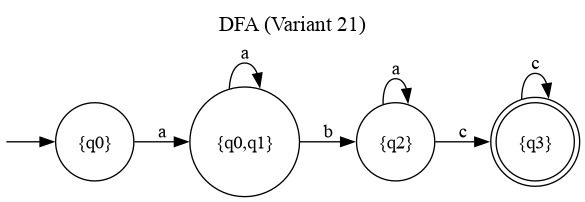
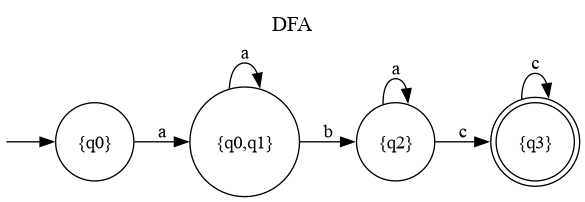
Create lab2.md

Changed region(s): [[0.3692, 0.0594, 0.6462, 0.1782]]

diff --git a/main.py b/main.py
@@ -128,9 +128,9 @@ def main():
 
     # 2d. Visualize the finite automaton graphically
     print(f"\n2d. Graphical representation:")
-    draw_automaton(fa, "NFA (Variant 21)", "nfa_graph")
+    draw_automaton(fa, "NFA", "nfa_graph")
     if not det:
-        draw_automaton(dfa, "DFA (Variant 21)", "dfa_graph")
+        draw_automaton(dfa, "DFA", "dfa_graph")
 
 
 if __name__ == "__main__":

diff --git a/lab2.md b/lab2.md
@@ -1,0 +1,296 @@
+# Determinism in Finite Automata. Conversion from NDFA to DFA. Chomsky Hierarchy.
+
+### Course: Formal Languages & Finite Automata
+### Author: Poiata Calin
+
+----
+
+## Theory
+
+A **finite automaton** (FA) is a mechanism used to represent processes of different kinds, comparable to a state machine. The word *finite* signifies that the automaton has a starting state and a set of final (accept) states — every modeled process has a beginning and an ending. An FA is formally defined by five components: a set of states (Q), an input alphabet (Σ), a transition function (δ), a start state (q₀), and a set of accept states (F).
+
+Based on the structure of the transition function, an automaton can be **deterministic** (DFA) or **non-deterministic** (NFA). In a DFA, each (state, symbol) pair maps to exactly one next state, making the system fully predictable. In an NFA, a single (state, symbol) pair can lead to multiple next states, introducing non-determinism. Despite this difference, DFAs and NFAs are equivalent in expressive power — every NFA can be converted into a DFA that recognizes the same language, using the **subset construction** algorithm.
+
+The **Chomsky hierarchy** classifies formal grammars into four types based on the form of their production rules: Type 0 (unrestricted), Type 1 (context-sensitive), Type 2 (context-free), and Type 3 (regular). Regular grammars (Type 3) are the most restrictive and correspond directly to finite automata.
+
+
+## Objectives:
+
+* Provide a function in the grammar class that classifies the grammar based on the Chomsky hierarchy.
+* Implement conversion of a finite automaton to a regular grammar.
+* Determine whether the FA is deterministic or non-deterministic.
+* Implement functionality to convert an NFA to a DFA.
+* Represent the finite automaton graphically using Graphviz.
+
+
+## Implementation description
+
+### Chomsky Hierarchy Classification
+
+The `classify_chomsky()` method in the `Grammar` class examines every production rule and checks three boolean flags — `is_regular`, `is_context_free`, and `is_context_sensitive` — to determine the grammar type. For Type 3 (regular), every left-hand side must be a single non-terminal, and every right-hand side must be either a single terminal or a terminal followed by a non-terminal (right-linear form). For Type 2 (context-free), only the single non-terminal LHS constraint is required. For Type 1 (context-sensitive), the RHS must be at least as long as the LHS. If none of these hold, it falls back to Type 0 (unrestricted).
+
+```python
+def classify_chomsky(self):
+    is_regular = True
+    is_context_free = True
+    is_context_sensitive = True
+
+    for lhs, rhs_list in self.productions.items():
+        if len(lhs) != 1 or lhs not in self.vn:
+            is_context_free = False
+            is_regular = False
+
+        for rhs in rhs_list:
+            if len(rhs) < len(lhs):
+                is_context_sensitive = False
+
+            if is_regular:
+                if len(rhs) == 1:
+                    if rhs not in self.vt:
+                        is_regular = False
+                elif len(rhs) == 2:
+                    if rhs[0] not in self.vt or rhs[1] not in self.vn:
+                        is_regular = False
+                else:
+                    is_regular = False
+
+    if is_regular:
+        return "Type 3 (Regular)"
+    elif is_context_free:
+        return "Type 2 (Context-Free)"
+    elif is_context_sensitive:
+        return "Type 1 (Context-Sensitive)"
+    else:
+        return "Type 0 (Unrestricted)"
+```
+
+When run on the Variant 21 grammar from Lab 1, it correctly identifies it as **Type 3 (Regular)**, since all productions are of the form `A → a` or `A → aB`.
+
+### FA to Regular Grammar Conversion
+
+The `to_regular_grammar()` method converts a finite automaton back into a regular grammar. Every state becomes a non-terminal. For each transition δ(A, a) = B, a production `A → aB` is created. Additionally, if B is an accept state, a production `A → a` is also added to allow the derivation to terminate. This dual handling is needed because an accept state may still have outgoing transitions (e.g., q3 with a self-loop on `c`), so both `A → aB` and `A → a` must be present to preserve the full language.
+
+```python
+def to_regular_grammar(self):
+    from grammar import Grammar
+
+    vn = set(self.states)
+    vt = set(self.alphabet)
+    productions = {}
+
+    for (state, symbol), targets in self.transitions.items():
+        for target in targets:
+            productions.setdefault(state, []).append(symbol + target)
+            if target in self.accept_states:
+                productions.setdefault(state, []).append(symbol)
+
+    return Grammar(vn, vt, productions, self.start_state)
+```
+
+### Determinism Check
+
+The `is_deterministic()` method iterates over all transition entries and checks whether any (state, symbol) pair maps to more than one target state. If so, the automaton is non-deterministic.
+
+```python
+def is_deterministic(self):
+    for (state, symbol), targets in self.transitions.items():
+        if len(targets) > 1:
+            return False
+    return True
+```
+
+For the Variant 21 FA, `δ(q0, a) = {q0, q1}` maps to two states, so the method correctly returns `False` — the automaton is an NFA.
+
+### NFA to DFA Conversion (Subset Construction)
+
+The `to_dfa()` method implements the subset construction algorithm. Each DFA state is a frozenset of NFA states. Starting from `{q0}`, the algorithm processes each symbol by collecting all NFA states reachable from the current set and creating a new DFA state for each unique combination. A DFA state is accepting if it contains any NFA accept state. Finally, states are renamed from frozenset representations to readable strings like `{q0,q1}`.
+
+```python
+def to_dfa(self):
+    dfa_start = frozenset({self.start_state})
+    dfa_states = set()
+    dfa_transitions = {}
+    queue = [dfa_start]
+    dfa_states.add(dfa_start)
+
+    while queue:
+        current = queue.pop(0)
+
+        for symbol in self.alphabet:
+            next_state = set()
+            for nfa_state in current:
+                key = (nfa_state, symbol)
+                if key in self.transitions:
+                    next_state |= self.transitions[key]
+
+            if not next_state:
+                continue
+
+            next_frozen = frozenset(next_state)
+            dfa_transitions[(current, symbol)] = {next_frozen}
+
+            if next_frozen not in dfa_states:
+                dfa_states.add(next_frozen)
+                queue.append(next_frozen)
+
+    dfa_accept = set()
+    for state in dfa_states:
+        if state & self.accept_states:
+            dfa_accept.add(state)
+
+    # Rename states to readable strings
+    state_names = {}
+    for state in sorted(dfa_states, key=lambda s: sorted(s)):
+        name = "{" + ",".join(sorted(s for s in state)) + "}"
+        state_names[state] = name
+
+    renamed_states = {state_names[s] for s in dfa_states}
+    renamed_transitions = {}
+    for (state, symbol), targets in dfa_transitions.items():
+        renamed_targets = {state_names[t] for t in targets}
+        renamed_transitions[(state_names[state], symbol)] = renamed_targets
+    renamed_accept = {state_names[s] for s in dfa_accept}
+    renamed_start = state_names[dfa_start]
+
+    return FiniteAutomaton(
+        renamed_states, set(self.alphabet),
+        renamed_transitions, renamed_start, renamed_accept,
+    )
+```
+
+### Graphical Representation
+
+The `draw_automaton()` function in `visualize.py` uses the Graphviz library to render a finite automaton as a directed graph. Accept states are drawn as double circles, regular states as single circles, and an invisible node provides the entry arrow to the start state. Transitions sharing the same source and target are merged into a single edge with a comma-separated label.
+
+```python
+from graphviz import Digraph
+
+def draw_automaton(fa, title, filename):
+    dot = Digraph(comment=title)
+    dot.attr(rankdir="LR", label=title, fontsize="16", labelloc="t")
+
+    dot.node("", shape="none", width="0", height="0")
+    dot.edge("", fa.start_state)
+
+    for state in sorted(fa.states):
+        if state in fa.accept_states:
+            dot.node(state, shape="doublecircle")
+        else:
+            dot.node(state, shape="circle")
+
+    edge_labels = {}
+    for (state, symbol), targets in fa.transitions.items():
+        for target in targets:
+            key = (state, target)
+            edge_labels.setdefault(key, []).append(symbol)
+
+    for (src, dst), symbols in sorted(edge_labels.items()):
+        label = ", ".join(sorted(symbols))
+        dot.edge(src, dst, label=label)
+
+    dot.render(filename, format="png", cleanup=True)
+```
+
+### Main Driver (Lab 2 section)
+
+The Lab 2 section of `main.py` defines the Variant 21 finite automaton directly, then runs all tasks in sequence: Chomsky classification of the Lab 1 grammar, FA-to-grammar conversion, determinism check, NFA-to-DFA conversion with verification, and graphical output.
+
+```python
+fa = FiniteAutomaton(
+    states={"q0", "q1", "q2", "q3"},
+    alphabet={"a", "b", "c"},
+    transitions={
+        ("q0", "a"): {"q0", "q1"},
+        ("q1", "b"): {"q2"},
+        ("q2", "c"): {"q3"},
+        ("q3", "c"): {"q3"},
+        ("q2", "a"): {"q2"},
+    },
+    start_state="q0",
+    accept_states={"q3"},
+)
+```
+
+
+## Conclusions / Results
+
+The program was executed successfully. Below is the output from the Lab 2 section:
+
+```
+1. Chomsky classification of Lab 1 grammar: Type 3 (Regular)
+
+Variant 21 Finite Automaton:
+  States:        {'q1', 'q2', 'q3', 'q0'}
+  Alphabet:      {'a', 'b', 'c'}
+  Start state:   q0
+  Accept states: {'q3'}
+  Transitions:
+    δ(q0, a) = {'q1', 'q0'}
+    δ(q1, b) = {'q2'}
+    δ(q2, a) = {'q2'}
+    δ(q2, c) = {'q3'}
+    δ(q3, c) = {'q3'}
+
+2a. FA → Regular Grammar conversion:
+  V_N = {'q1', 'q2', 'q3', 'q0'}
+  V_T = {'a', 'b', 'c'}
+  Start = q0
+  Productions:
+    q0 → aq1
+    q0 → aq0
+    q1 → bq2
+    q2 → cq3
+    q2 → c
+    q2 → aq2
+    q3 → cq3
+    q3 → c
+
+2b. Is the FA deterministic? No (NFA)
+
+2c. NFA → DFA conversion:
+  States:        {'{q3}', '{q0}', '{q0,q1}', '{q2}'}
+  Alphabet:      {'a', 'b', 'c'}
+  Start state:   {q0}
+  Accept states: {'{q3}'}
+  Transitions:
+    δ({q0,q1}, a) = {'{q0,q1}'}
+    δ({q0,q1}, b) = {'{q2}'}
+    δ({q0}, a) = {'{q0,q1}'}
+    δ({q2}, a) = {'{q2}'}
+    δ({q2}, c) = {'{q3}'}
+    δ({q3}, c) = {'{q3}'}
+
+  Is the converted FA deterministic? Yes (DFA)
+
+  Verification (DFA should match NFA results):
+    'abc' -> NFA=accepted, DFA=accepted ✓
+    'aabc' -> NFA=accepted, DFA=accepted ✓
+    'abaac' -> NFA=accepted, DFA=accepted ✓
+    'abcc' -> NFA=accepted, DFA=accepted ✓
+    'abaccc' -> NFA=accepted, DFA=accepted ✓
+    'ab' -> NFA=rejected, DFA=rejected ✓
+    'aac' -> NFA=rejected, DFA=rejected ✓
+    'bc' -> NFA=rejected, DFA=rejected ✓
+    'b' -> NFA=rejected, DFA=rejected ✓
+    'abcb' -> NFA=rejected, DFA=rejected ✓
+
+2d. Graphical representation:
+Saved nfa_graph.png
+Saved dfa_graph.png
+```
+
+The Variant 21 grammar from Lab 1 is correctly classified as **Type 3 (Regular)** in the Chomsky hierarchy.
+
+The Variant 21 finite automaton is correctly identified as **non-deterministic** because δ(q0, a) leads to two states: {q0, q1}. The FA-to-grammar conversion produces a valid right-linear grammar that preserves the language, including the self-loop on the accept state q3.
+
+The NFA-to-DFA conversion via subset construction produces a 4-state DFA. The merged state {q0, q1} handles the non-determinism of the original q0. Verification confirms that the DFA accepts and rejects exactly the same strings as the NFA.
+
+The generated graphs are shown below:
+
+**NFA (Variant 21):**
+
+![NFA graph](nfa_graph.png)
+
+**DFA (Variant 21):**
+
+![DFA graph](dfa_graph.png)
